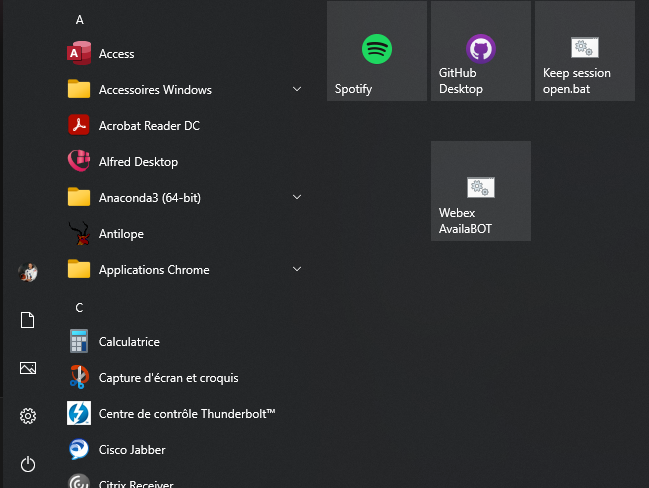
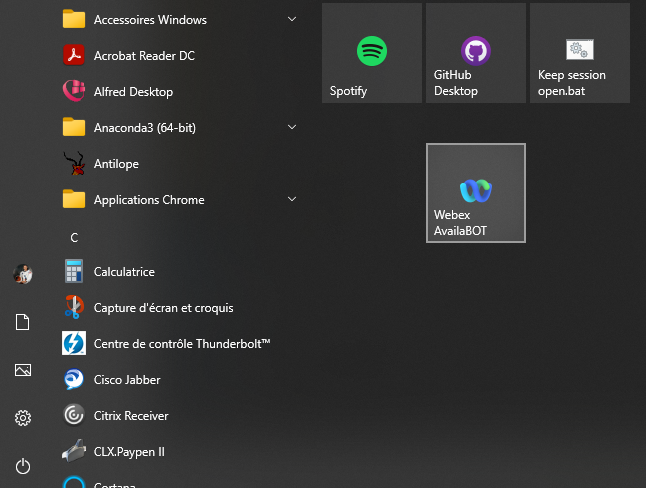
Improved notification layout

diff --git a/README.md b/README.md
@@ -3,6 +3,8 @@
 - [AvailaBOT - Get notified when a contact is available in Webex Teams](#availabot---get-notified-when-a-contact-is-available-in-webex-teams)
   - [Inspiration and credits](#inspiration-and-credits)
   - [New functionalities](#new-functionalities)
+    - [Recently added](#recently-added)
+    - [Previously added](#previously-added)
   - [How to set it up](#how-to-set-it-up)
   - [How to use it](#how-to-use-it)
   - [Launching the script](#launching-the-script)
@@ -19,6 +21,15 @@ This project was inspired by [this AppleScript](https://github.com/CiscoDevNet/w
 ---
 
 ## New functionalities
+
+### Recently added
+
+- Improved notification layout, with Webex logo and user avatar (if the user has set one)
+![Notification layout](images/Notification.png)
+- Storing the user's avatar with a local temp file
+- Deleting the local avatar after the script ends
+
+### Previously added
 
 - Better toast notification look
 - When clicked, the notification will open Webex's chat with your selected contact
@@ -49,7 +60,7 @@ and you're good to go !
 
 Simply double click on  `Run availaBOT.bat` and follow the instructions:
 
-![image](images/1.%20Homescreen.png?raw=true "Script launched")
+![Script](images/Script.png)
 
 Simply enter the e-mail adress of the colleague or user you want to be notified and press enter. The script will check the user's status every ten second.
 When the user is available, you'll get a Windows notification.
@@ -63,10 +74,12 @@ You can start the script by either:
 - Right-clicking on `WebexAvailability.ps1` and selecting `Execute with PowerShell`
 - Double clicking on `Run availaBOT.bat` (preferred)
 
-For the second option, you can even create a shortcut to this file and place it anywhere you want.
+For the second option, you can even create a shortcut to this file and place it anywhere you want. A shortcut with Webex logo is already made in the repo, see the `Run availaBOT.lnk` file.
 For example, I placed mine in the Start Menu, that way, I can quickly start the script anywhere:
 
-![image](images/Start%20menu.png?raw=true "Start menu")
+![Shortcut](images/Shortcut.png)
+
+![Star menu](images/Start%20menu.png)
 
 ---
 
